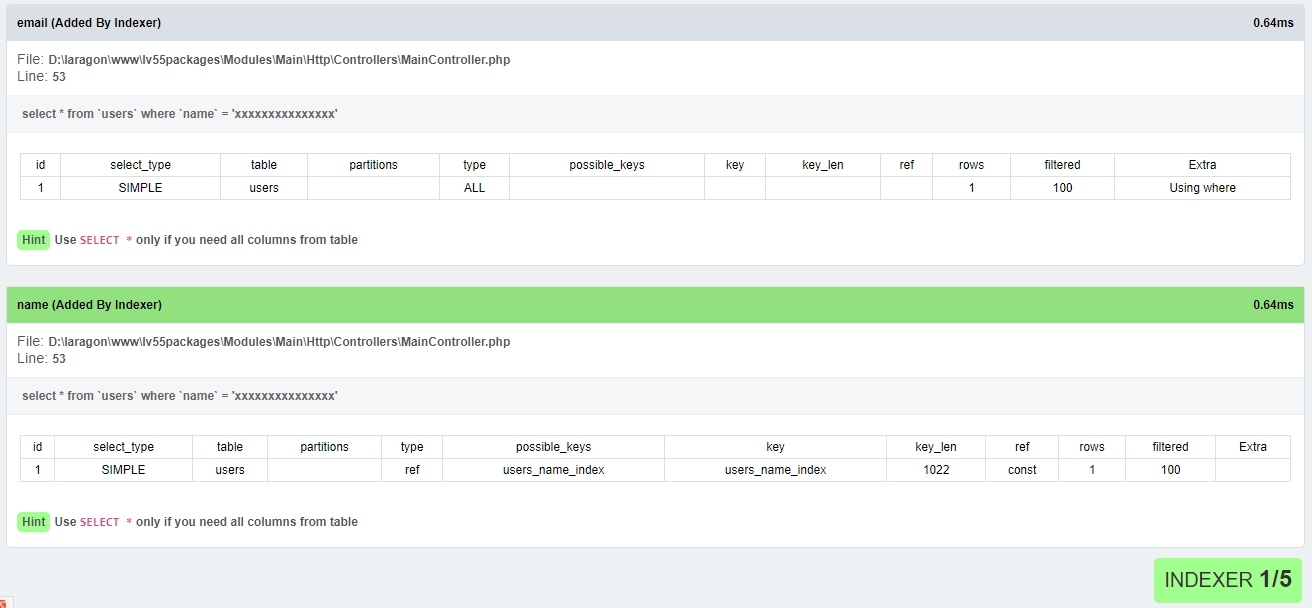
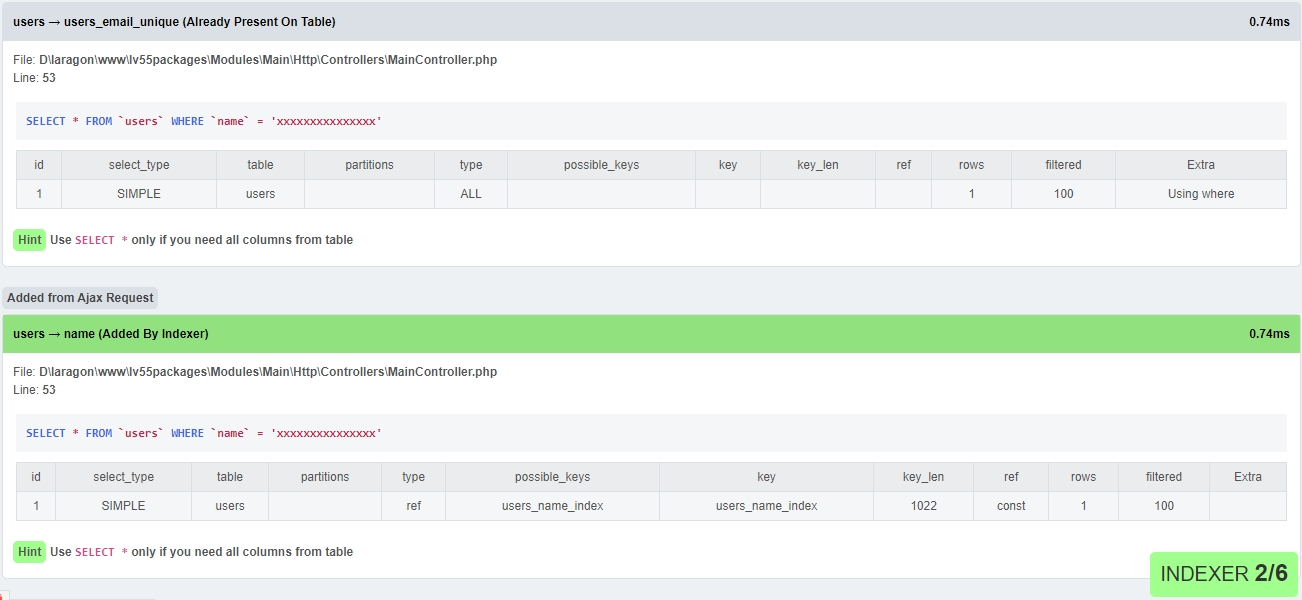
result layout changes

diff --git a/src/Outputs/Web.php b/src/Outputs/Web.php
@@ -75,7 +75,7 @@ class Web implements Output
                 .indexer * { font-size:$fontSize !important; }
                 .indexer_section { background: #fff !important; margin:0 0 20px 0 !important; border:1px solid #dae0e5 !important; border-radius:5px !important; }
                 .indexer_section_details { padding:10px !important; background: #dae0e5; }
-                .indexer .sql { border: 1px solid #e8ebed !important; color:#666; !important; padding: 10px 10px !important; margin: 5px 13px !important; font-weight: bold !important;  }
+                .indexer .sql { background: #f4f6f7 !important; color:#c7254e; !important; padding: 10px 10px !important; margin: 5px 13px !important; font-weight: bold !important; font-family: Menlo, Monaco, Consolas, "Courier New", monospace; }
                 .indexer .sql_keyword { color:royalblue !important; text-transform: uppercase !important; }
                 .indexer .left { float: left !important; }
                 .indexer .right { float: right !important; }
@@ -86,7 +86,8 @@ class Web implements Output
                 .indexer .error { background:#ff6586 !important; color:#fff !important; font-weight:bold !important; text-align:center !important; border:1px solid red !important; padding:10px !important; margin:10px 0 !important;}
                 .indexer .indexer_table * { background:#f4f6f7 !important; color:#555; !important; }
                 .indexer .indexer_table { border-collapse: collapse !important; width: 98% !important; margin: 10px auto !important;}
-                .indexer .indexer_table td, .indexer .indexer_table th { padding: 3px !important; font-weight: normal !important; text-align: center !important; border: 1px solid #e8ebed; word-wrap: break-word !important;}
+                .indexer .indexer_table td, .indexer .indexer_table th { padding: 5px !important; font-weight: normal !important; text-align: center !important; border: 1px solid #dae0e5; word-wrap: break-word !important;}
+                .indexer .indexer_table th { background: #eaeced !important;}
             </style>
 OUTOUT;
 
